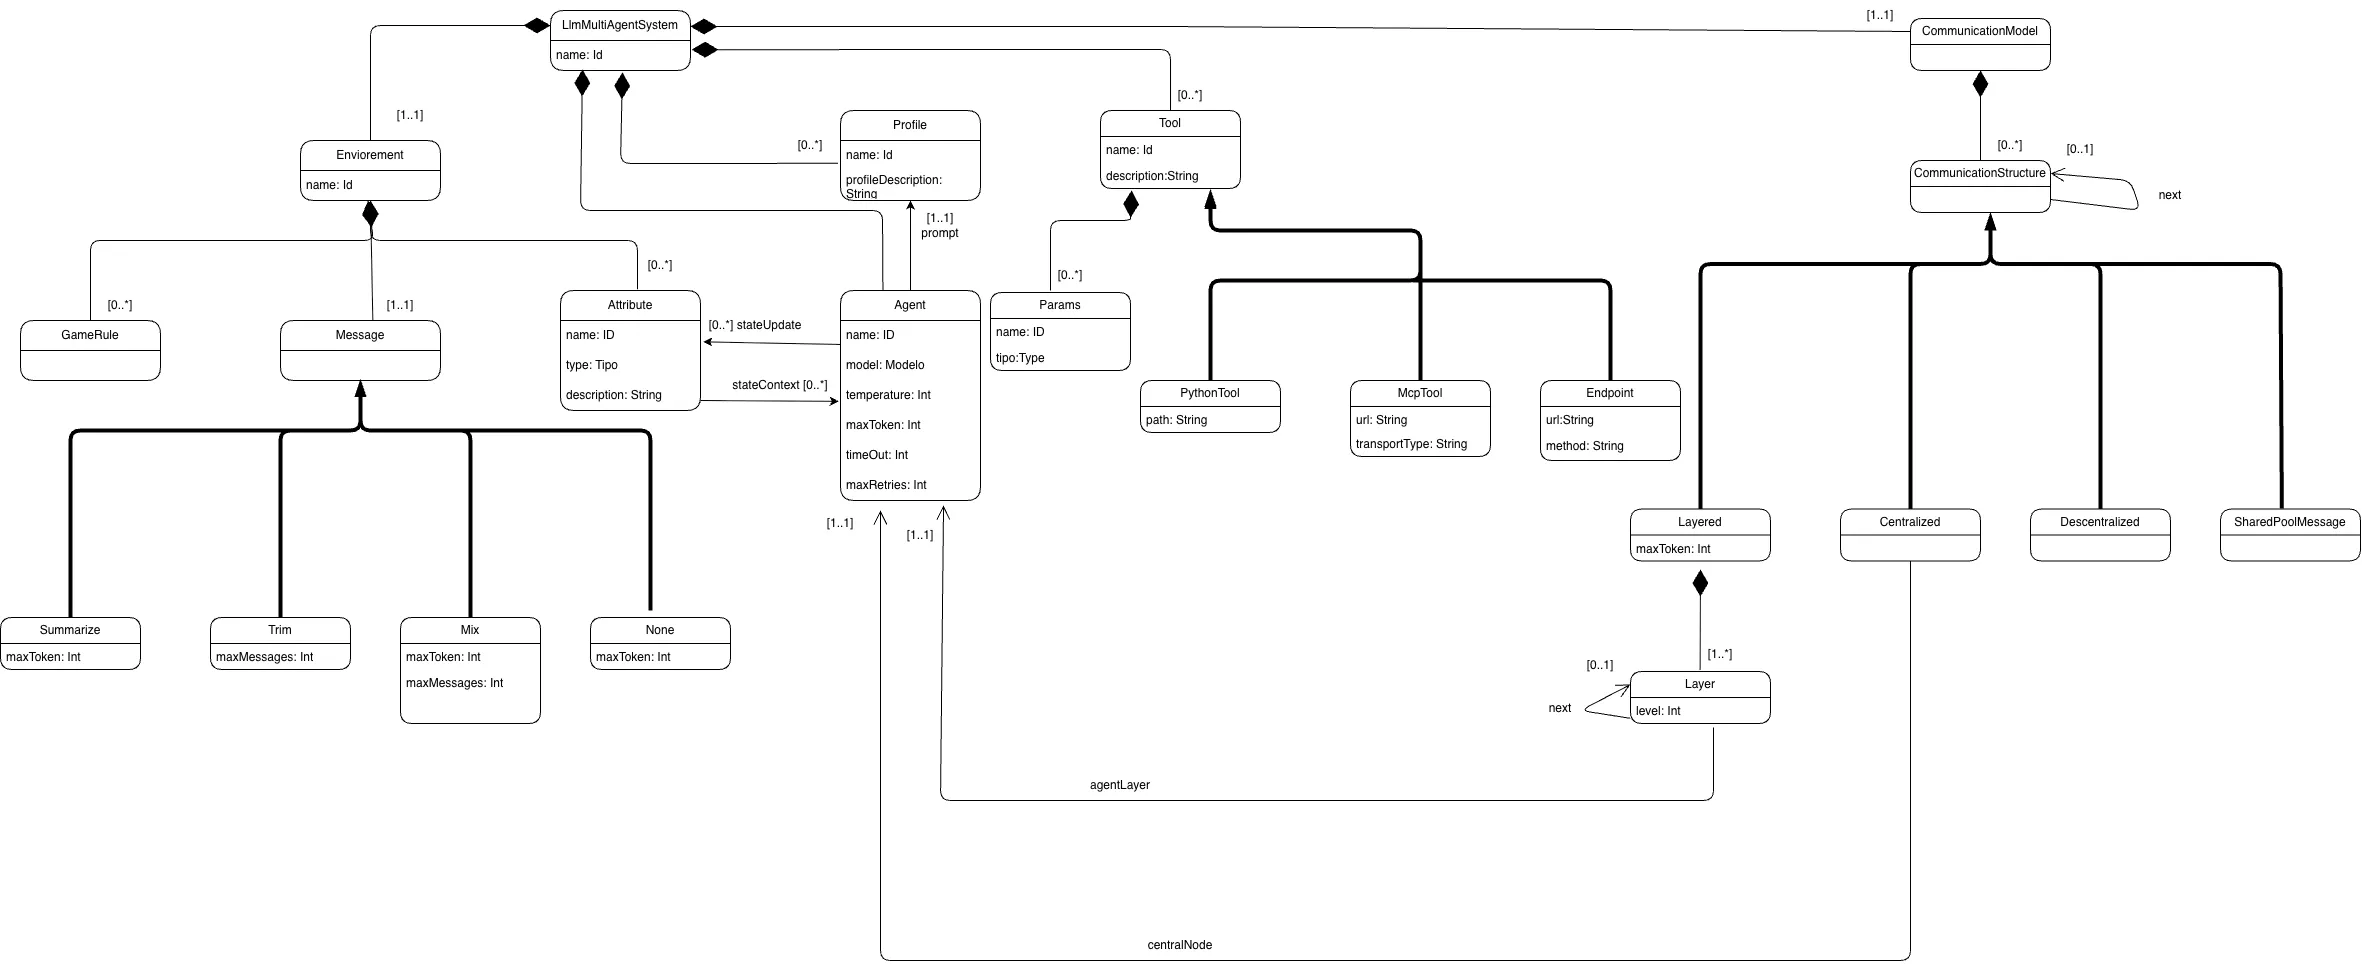
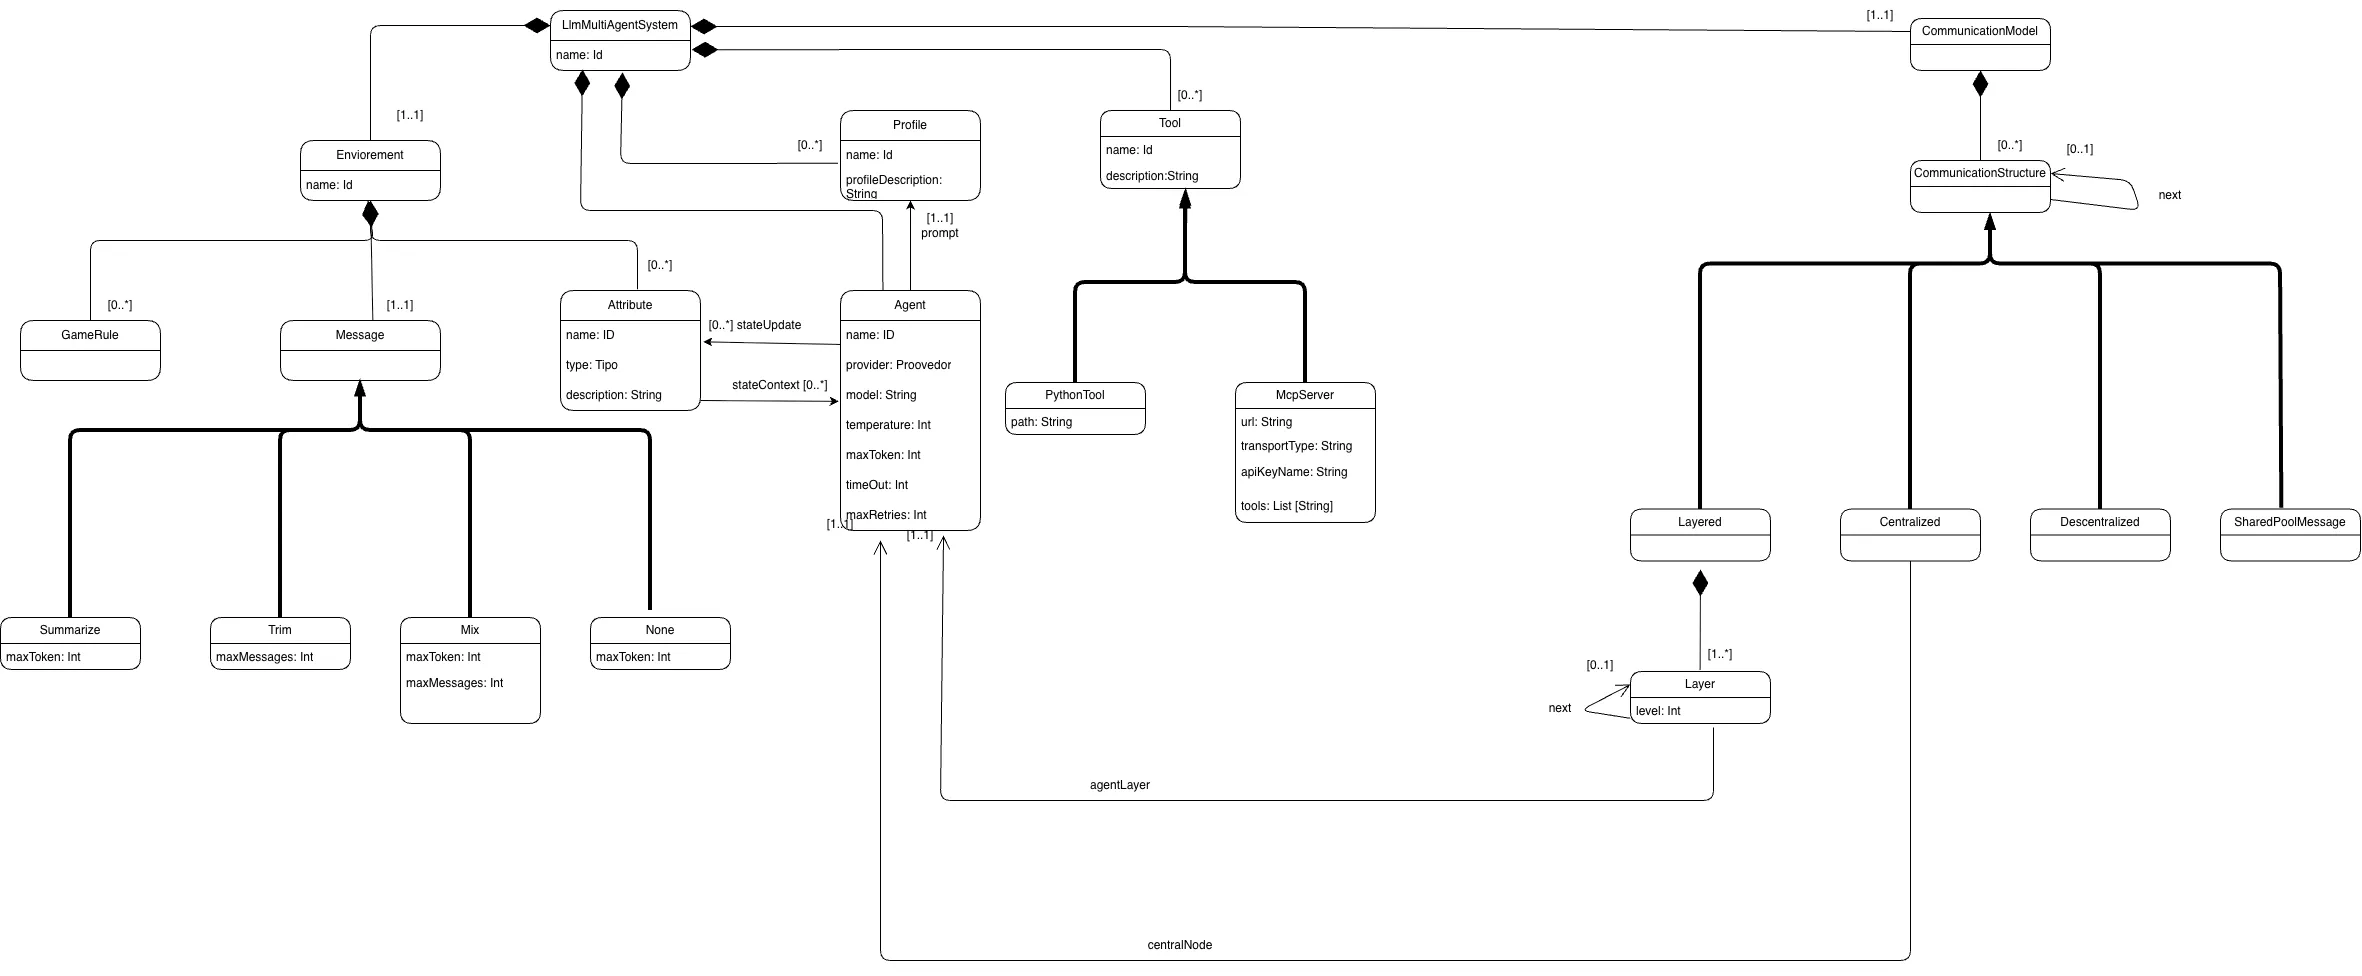
doc: Ligeros cambios del metamodelo reflejados en metamodelo.md

diff --git a/docs/backlog.md b/docs/backlog.md
@@ -1,26 +1,25 @@
 # Backlog
 ## Tareas pendientes
-| Prioridad | Tarea | Descripción |
-|---|---|---|
-| 🔴 Alta | Mecanismos de bifurcación | El metamodelo no permite expresar edges condicionales entre nodos. Sin esto no es posible modelar grafos cíclicos ni flujos de control no lineales. Bloquea la implementación de Summarize/Mix, HumanInTheLoop y el nodo resumen. |
-| 🔴 Alta | Restricciones de bien-formedness | Redactar e implementar en el validator todas las restricciones OCL identificadas. Catálogo provisional en `restricciones.md`. |
-| 🔴 Alta | Refinar generación de código de estructura `Layered` | Revisar y mejorar la generación actual de la estructura de comunicación `Layered` para asegurar corrección, legibilidad y coherencia con el resto de estructuras pendientes. |
-| 🔴 Alta | Generación de código de estructura `Centralized` | Implementar en el generador la traducción de la estructura de comunicación `Centralized` (un agente coordinador que orquesta al resto) al grafo de LangGraph. |
-| 🔴 Alta | Generación de código de estructura `SharedMessagePool` | Implementar en el generador la traducción de la estructura de comunicación `SharedMessagePool` (agentes que publican y consumen sobre un pool común de mensajes) al grafo de LangGraph. |
-| 🔴 Alta | Generación de código de estructura `Decentralized` | Implementar en el generador la traducción de la estructura de comunicación `Decentralized` (comunicación directa entre agentes sin coordinador) al grafo de LangGraph. |
-| 🟡 Media | Invocación del grafo | El generador produce un bloque de invocación y comprobación de resultados completamente provisional. El objetivo es que el código generado tenga calidad de producción con integración de LangSmith. |
-| 🟡 Media | Mecanismo de inicio y fin del grafo | Para la estructura `Layered` el inicio y fin se infieren correctamente a partir de las referencias `next`. Sin embargo, hace falta implementar algún mecanismo más para que cuando se mezclen distintas estructuras de comunicaición el generador sepa cuando generar los edges hacia start y end. |
-| 🟡 Media | Nodo resumen | El generador produce correctamente el nodo de resumen pero no lo integra en el grafo. Su conexión está bloqueada por la ausencia de bifurcaciones y por la ambigüedad de posición en grafos con múltiples estructuras. Ver `adr/002-summarize&mixReducer.md`. |
-| 🟡 Media | Summarize y Mix en el generador | Actualmente se genera el nodo de resumen pero no se conecta al grafo. Su integración completa está bloqueada por la ausencia de bifurcaciones y por la ambigüedad de posición en grafos con múltiples estructuras. Detalle en `adr/002-summarize&mixReducer.md`. |
-| 🟡 Media | Human in the Loop | Añadir al metamodelo un mecanismo para declarar puntos de interrupción en el grafo donde un humano puede revisar o modificar el estado antes de continuar la ejecución. Requiere soporte de bifurcaciones previo. |
-| 🟢 Baja | Generar código de mecanismo MIX | Permitir tanto que se guarden los x últimos mensajes como un resumen. Combinación de `trim` y `summarize`. |
-| 🟢 Baja | Flags en el CLI | Añadir opciones `--only` y `--skip` al comando `generate` para permitir activar o desactivar la generación de módulos individuales (state, prompts, agents, graph, tools). |
+| Prioridad | Tarea | Esfuerzo | Descripción |
+|---|---|---|---|
+| 🔴 Alta | Mecanismos de bifurcación | Alto | El metamodelo no permite expresar edges condicionales entre nodos. Sin esto no es posible modelar grafos cíclicos ni flujos de control no lineales. Bloquea la implementación de Summarize/Mix, HumanInTheLoop y el nodo resumen. |
+| 🔴 Alta | Restricciones de bien-formedness | Medio | Redactar e implementar en el validator todas las restricciones OCL identificadas. Catálogo provisional en `restricciones.md`. | 
+| 🔴 Alta | Refinar generación de código de estructura `Layered` | Medio | Revisar y mejorar la generación actual de la estructura de comunicación `Layered` para asegurar corrección, legibilidad y coherencia con el resto de estructuras pendientes. |
+| 🔴 Alta | Generación de código de estructura `Centralized` | Medio |Implementar en el generador la traducción de la estructura de comunicación `Centralized` (un agente coordinador que orquesta al resto) al grafo de LangGraph. |
+| 🔴 Alta | Generación de código de estructura `SharedMessagePool` | Medio |Implementar en el generador la traducción de la estructura de comunicación `SharedMessagePool` (agentes que publican y consumen sobre un pool común de mensajes) al grafo de LangGraph. |
+| 🔴 Alta | Generación de código de estructura `Decentralized` | Medio | Implementar en el generador la traducción de la estructura de comunicación `Decentralized` (comunicación directa entre agentes sin coordinador) al grafo de LangGraph. |
+| 🟡 Media | Invocación del grafo | Medio | El generador produce un bloque de invocación y comprobación de resultados completamente provisional. El objetivo es que el código generado tenga calidad de producción con integración de LangSmith. |
+| 🟡 Media | Mecanismo de inicio y fin del grafo | Medio | Para la estructura `Layered` el inicio y fin se infieren correctamente a partir de las referencias `next`. Sin embargo, hace falta implementar algún mecanismo más para que cuando se mezclen distintas estructuras de comunicaición el generador sepa cuando generar los edges hacia start y end. |
+| 🟡 Media | Summarize y Mix en el generador | Media | Actualmente se genera el nodo de resumen pero no se conecta al grafo. Su integración completa está bloqueada por la ausencia de bifurcaciones y por la ambigüedad de posición en grafos con múltiples estructuras. Detalle en `adr/002-summarize&mixReducer.md`. |
+| 🟡 Media | Human in the Loop | Alto | Añadir al metamodelo un mecanismo para declarar puntos de interrupción en el grafo donde un humano puede revisar o modificar el estado antes de continuar la ejecución. Requiere soporte de bifurcaciones previo. |
+| 🟢 Baja | Generar código de mecanismo MIX | Alto |Permitir tanto que se guarden los x últimos mensajes como un resumen. Combinación de `trim` y `summarize`. |
+| 🟢 Baja | Flags en el CLI | Desconocido | Añadir opciones `--only` y `--skip` al comando `generate` para permitir activar o desactivar la generación de módulos individuales (state, prompts, agents, graph, tools). |
 
 
 ## Tareas completadas
 
-| Prioridad | Tarea | Descripción |  Comentario |
-|---|---|---|---|
-| 🔴 Alta | Configuración generada | El generador produce un `.env.template` y un `config.py`, pero las variables de API key del LLM están hardcodeadas para OpenAI tanto en el generador de configuración como en el de grafo. Debería variar según el modelo declarado en el metamodelo. | Generado el documento [Adr005](./adr/005-modelosPorProvider.md)|
-| 🟡 Media | Incluir selector de modelos | El generador asigna a todos los agentes el modelo `gpt-5-nano` por defecto, ignorando el atributo `model` del agente en el metamodelo (`gpt`, `claude`, `ollama`). | . |
-| 🔴 Alta | Agentes usan herramientas | El generador de código aún no permite usar herramientas a los agentes. Se decidió no implementar solo herramientas Python en esta iteración porque la generación de herramientas MCP y Python difiere radicalmente, y hacerlo por separado obligaría a descartar código al unificarlas. Se abordará todo de una vez. | Geberados los siguientes documentos [Adr006](./adr/006-eliminacionEndPointTool.md), [Adr007](./adr/007-toolNameEnMcpTool.md), [Adr008](./adr/008-failFastMcpToolLookup.md), [Adr009](./adr/009-baseModelComoToolYWhileLoop.md) |
+| Prioridad | Tarea | Prioridad | Descripción |  Comentario |
+|---|---|---|---|---|
+| 🔴 Alta | Configuración generada | Bajo | El generador produce un `.env.template` y un `config.py`, pero las variables de API key del LLM están hardcodeadas para OpenAI tanto en el generador de configuración como en el de grafo. Debería variar según el modelo declarado en el metamodelo. | Generado el documento [Adr005](./adr/005-modelosPorProvider.md)|
+| 🟡 Media | Incluir selector de modelos | Medio | El generador asigna a todos los agentes el modelo `gpt-5-nano` por defecto, ignorando el atributo `model` del agente en el metamodelo (`gpt`, `claude`, `ollama`). | . |
+| 🔴 Alta | Agentes usan herramientas | Alto | El generador de código aún no permite usar herramientas a los agentes. Se decidió no implementar solo herramientas Python en esta iteración porque la generación de herramientas MCP y Python difiere radicalmente, y hacerlo por separado obligaría a descartar código al unificarlas. Se abordará todo de una vez. | Geberados los siguientes documentos [Adr006](./adr/006-eliminacionEndPointTool.md), [Adr007](./adr/007-toolNameEnMcpTool.md), [Adr008](./adr/008-failFastMcpToolLookup.md), [Adr009](./adr/009-baseModelComoToolYWhileLoop.md) |

diff --git a/docs/metamodelo.md b/docs/metamodelo.md
@@ -1,4 +1,5 @@
 ## Metamodelo
+* **Última Actualización:** 21/04/2026
 
 ![Metamodelo](./media/Metamodel.webp)
 
@@ -59,7 +60,8 @@ Define un agente individual dentro del sistema. Referencia un `Profile` (su prom
 
 | Atributo   | Descripcion                                                         |
 |------------|---------------------------------------------------------------------|
-| `model`    | Modelo LLM a utilizar: `gpt`, `claude`, `ollama`, ...                  |
+| `provider`    | Proovedor del modelo seleccionado. Lista limitada            |
+| `model`    | Modelo LLM a utilizar: `gpt`, `claude`, `ollama`, ... Es un string que es validado a través de una lista en .json                 |
 | `profile`  | Referencia al `Profile` que define el prompt de sistema del agente.  |
 
 **Recomendables:**
@@ -90,9 +92,9 @@ Define herramientas que los agentes pueden utilizar para interactuar con sistema
 
 Herramienta implementada como un módulo Python local. Además de la base común, requiere la ruta al módulo (`modulePath`).
 
-#### `MCPTool`
+#### `MCPServer`
 
-Herramienta que conecta con un servidor MCP (Model Context Protocol) remoto. Define la URL del servidor (`serverUrl`), el tipo de transporte (`transport`) y, opcionalmente, una clave de autenticación (`key`).
+Herramienta que conecta con un servidor MCP (Model Context Protocol) remoto. Define la URL del servidor (`serverUrl`), el tipo de transporte (`transport`), opcionalmente, una clave de autenticación (`key`) y una lista de nombres de tools tools (`tools`), de forma que si vamos a usar varias herramientas de un mismo server solo necesitemos una conexión con dicho server.
 
 ---
 

diff --git a/docs/evolucionMetamodelo.md b/docs/evolucionMetamodelo.md
@@ -32,7 +32,7 @@ se conservan en [`prototipos/`](./prototipos/).
 
 ---
 
-## v1 — Metamodelo base de Barriga et al.
+## v1 — Metamodelo base de Barriga.
 
 **Origen.** Esta primera iteración toma como punto de partida el metamodelo
 propuesto en el artículo *Model-Driven Development Toward LLM-Based
